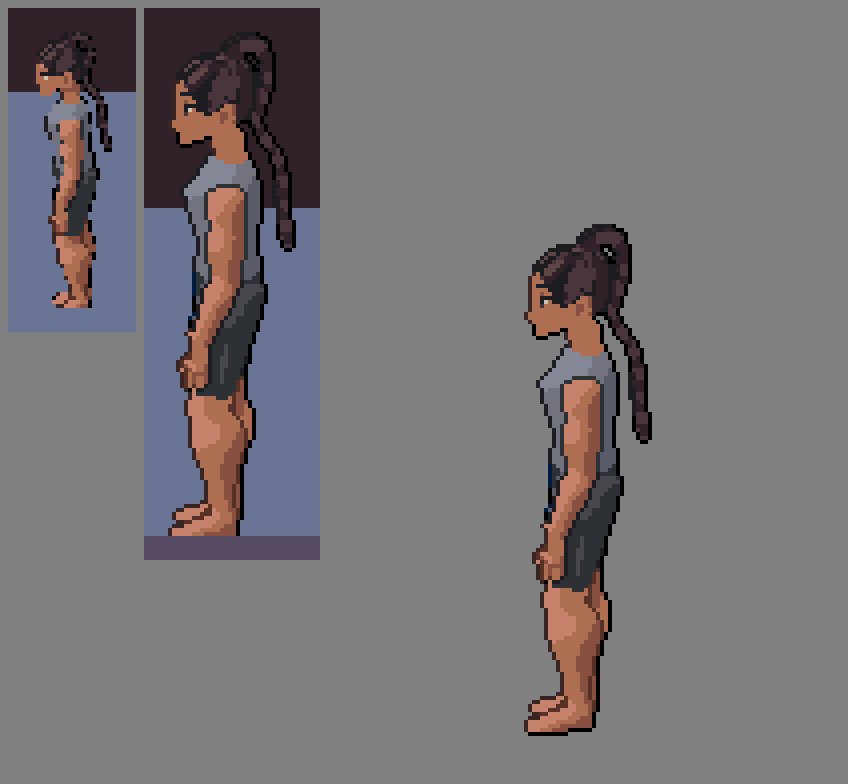
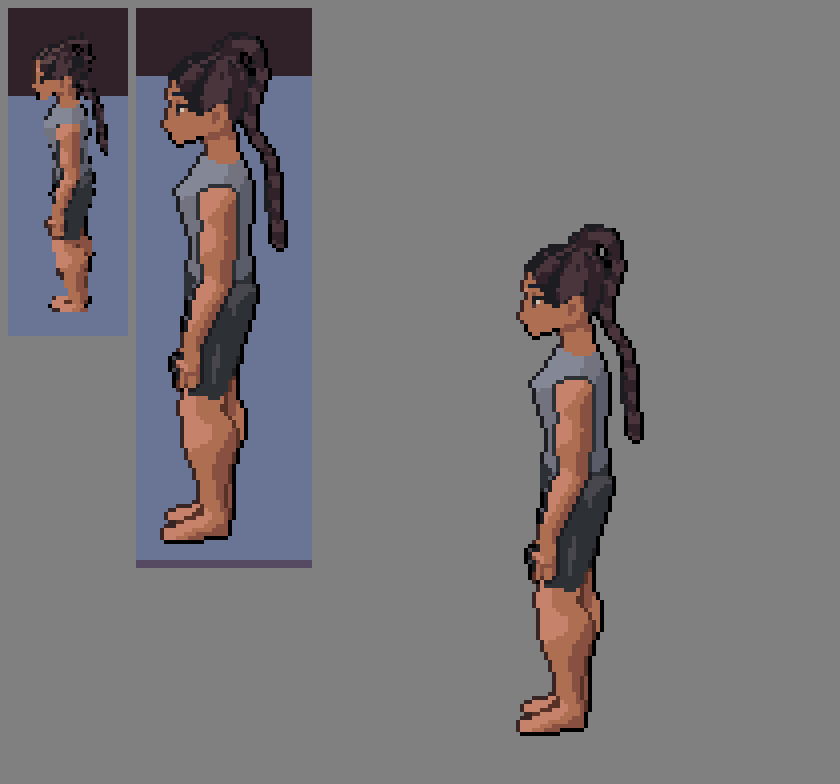
fix(examples): characterkit-painted states its camera, so main's new default does not minify the texels
main's default gameplay camera is now 50 mm, 30°, 16 m. The example took the default and a texel at the
walker's feet fell to 0.69 of a pixel (painted-scale failed 2 of 3). It now sets distance 10.75, which gives
1.0156, 0.9028 and 0.6771 at 720 x 405, 640 x 360 and 480 x 270, the numbers its size was chosen by.
painted-scale reads the distance from the example, thresholds unchanged. Gate 1 re-made: the stander is
1.000 texels a pixel and every texel equals the builder's; the pictures and the README move with it.

Claude-Session: https://claude.ai/code/session_01HNdX7K2SMNouVAW7qmCQuN

Changed region(s): [[0.0, 0.0, 0.4024, 0.7347], [0.619, 0.2755, 0.7738, 0.949]]

diff --git a/extensions/character-kit/tests/unit/painted/painted-scale.test.ts b/extensions/character-kit/tests/unit/painted/painted-scale.test.ts
@@ -1,7 +1,7 @@
-// "A texel is never minified": the example's own numbers (its size, the 24 mm lens and the follow rig's defaults), through
-// the builder's own `zoomOf`, never typed. The size is read from the example, so a change there moves this test with it.
-// Under reduced motion klipp's damping is zero, so the camera sits on its target: 5 m back from a focus 1 m above the
-// walker's feet, 25° down, and the feet are 5.42 m deep.
+// "A texel is never minified": the example's own numbers (its size, its camera's distance, the default 30° tilt and the
+// 50 mm lens), through the builder's own `zoomOf`, never typed. The size and the distance are read from the example, so a
+// change there moves this test with it. Under reduced motion klipp's damping is zero, so the camera sits on its target:
+// `distance` back from a focus 1 m above the walker's feet, `tiltDeg` down.
 import { readFileSync } from 'node:fs'
 import { join } from 'node:path'
 import { CAMERA_DEFAULTS, fovOf, LENS_MM } from '@automata/3d/camera-view'
@@ -20,6 +20,12 @@ const SIZE = (() => {
   if (!match) throw new Error('characterkit-painted.ts has no `size: { width, height }`')
   return [Number(match[1]), Number(match[2])] as const
 })()
+/** How far back the example's follow camera is. */
+const DISTANCE = (() => {
+  const match = /cameraView\('follow',\s*\{[^}]*distance:\s*([\d.]+)/.exec(readFileSync(EXAMPLE, 'utf8'))
+  if (!match) throw new Error("characterkit-painted.ts has no `cameraView('follow', { distance })`")
+  return Number(match[1])
+})()
 /** The corners of the walker's 2 m square. */
 const CORNERS: readonly (readonly [number, number])[] = [
   [-1, -1],
@@ -27,9 +33,9 @@ const CORNERS: readonly (readonly [number, number])[] = [
   [1, 1],
   [-1, 1],
 ]
-const { distance, tiltDeg, focusHeight } = CAMERA_DEFAULTS
+const { tiltDeg, focusHeight } = CAMERA_DEFAULTS
 const camera = (focus: readonly [number, number, number], size: readonly [number, number]) =>
-  poseOf(followCamera(focus, distance, tiltDeg, focusHeight, fovOf(LENS_MM)), size)
+  poseOf(followCamera(focus, DISTANCE, tiltDeg, focusHeight, fovOf(LENS_MM)), size)
 
 /** The texels a pixel at the walker's feet (what `scale` rounds) with the camera on the walker. */
 const walkerZoom = (size: readonly [number, number]) => zoomOf(camera([0, 0, 0], size), [0, 0, 0]) / 2

diff --git a/examples/3d/characterkit/characterkit-painted.ts b/examples/3d/characterkit/characterkit-painted.ts
@@ -4,8 +4,8 @@
 //   texel by texel, drawn in the scene as a quad that stands where its entity stands. It is drawn in eight views, as a
 //   sprite set is: the painter picks the one nearest the camera's bearing, so a turning camera steps through them. It is
 //   always painted at the painter's own 18° pitch, whatever the camera's tilt, and at one screen pixel a texel: the field
-//   is 720 × 405 so that a texel at the walker's feet is about a pixel (at 480 × 270 it would be two thirds of one, and
-//   texels would drop out). Each texel has its own depth, so the walker goes behind the low wall on its near side texel by
+//   is 720 × 405 and the camera 10.75 m back so that a texel at the walker's feet is about a pixel (at 480 × 270 it
+//   would be two thirds of one, and texels would drop out). Each texel has its own depth, so the walker goes behind the low wall on its near side texel by
 //   texel, not as a flat cut-out. Everything about the look (the light's bands, the outline, the face, the colours) is
 //   the painter's.
 // Controls: none
@@ -44,7 +44,9 @@ const walk = defineSystem('walk', (ctx) => {
   ][side] as [number, number, number]
   for (const walker of ctx.query(Walker)) walker.set(Walker, { x, z, yaw, walking: lap < 480 })
 })
-const FOLLOW = cameraView('follow')
+// The camera is stated, not defaulted: the example's size is chosen for how far back it is. The default gameplay camera
+// (50 mm, 30°, 16 m) would put a texel at the walker's feet at 0.69 of a pixel here, and texels would drop out.
+const FOLLOW = cameraView('follow', { distance: 10.75 })
 
 // --- game ---
 export default defineGame({

diff --git a/docs/refactor/progress.md b/docs/refactor/progress.md
@@ -750,11 +750,12 @@ does not merge.
 | 3. Spec and plan for cycle c7 | Done, 2026-11-11, approved ahead by the Owner ("auto approve spec and plans", relayed by the coordinator), the plan audit next: the builder's look in AF (D2, painted at 18° whatever the camera's tilt, crisp), per-texel depth on the builder's own `CellSprite` in AF's view, the runway wardrobe, fabrics, library and casts in the kit on the builder's hooks, and a runway example; 10 tasks, two gates (the coordinator's checkpoints). Nothing in `packages/3d` by design (two files named in case). Two asks of FigureBuilder first (`TIE_BIAS` on its index; six names on its kit entry). Read: FigureBuilder main `1da8879` and its showcase branches. Ran: the docs style check (`check-style --docs`). Not run: `pnpm format` and `pnpm check` (no install in this session; Biome does not format Markdown). Nothing built | [spec](2026-11-11-c7-fashion-spec.md), [plan](2026-11-11-c7-fashion-plan.md) |
 | 3a. Plan audit | Done, 2026-11-11 (no subagents): 5 blocking (B1 Task 0 waited on FB #27, merged as `d6e3c9f`; B2 the pose test folded `zoom` the wrong way for both modes; B3 Task 4's 0.95 could not pass, the feet are 5.42 m deep, about 0.90; B4 the runway left every 420 ticks, racing the journey and the spec; B5 no step checked the FB names before code), 10 should-fix (Pixi resolution through the wrapper, `View3D.onRender` as the seam, lazy attach, the state check in Node, hidden figures, the browser engines, gate 1's clock and base `a66b4e0e`, gate 2's CPU (throttled, per-model first paints, paint-ahead), the vendor paths in `3d.yml`, the phones' scale), 5 nice-to-have; all fixed in the plan. The spec corrected where wrong (FB main, the px-a-texel numbers at the feet, the phones, two walkers at once). Not verified: anything in FB (the submodule could not be cloned and the repo could not be added); Task 1 Step 1b checks it first. Ran: `pnpm install`, `pnpm format`, `check-style --docs` | [audit](2026-11-11-c7-fashion-plan-audit.md) |
 | 4. Resolution and depth (plan Tasks 1 to 4) | Done, 2026-11-11 (session of cycle c7-af's execution, no subagents): the submodule at `d6e3c9f`; the door in `src/shared/figure-builder/` (`door.ts`, `door-view.ts`); `poseOf` and `place` (the stage contract's rule, equal to the builder's `stageFrame`, perspective and orthographic); a per-camera painted stage on the builder's `CellSprite` in `View3D.onRender` (depth per texel, equal to `compose`); `characterkit-painted` at 720 × 405 (the coordinator's ruling) with a wall. Ran, in Chromium only: kit unit 118+, kit browser 46 pass 1 skipped (WebGPU, no adapter), `characterkit-painted` journey (examples-3d), format, lint, typecheck, boundaries, style, knip, the whole unit suite through the pre-commit hook (61 packages). Not run: WebKit and Firefox (not installable here), the GPU runner, `pnpm check`'s changeset step | plan Tasks 1 to 4 |
-| 5. Gate 1: before and after renders, texels a pixel measured (Task 5) | Ready, 2026-11-11, the coordinator's checkpoint: before `a66b4e0e` 1.78 texels a pixel, after 1.016 (the stander, whole figure) and 1.000 from the ground up; 0 pixels differ from the builder's `compose` in four cases (230,400 compared, 228,480 where three rows are skipped); made by `pnpm --filter @automata/character-kit gate 1` (re-made in 7b: the numbers are `measurements.json`'s). Firefox and the GPU runner pending | [gate 1](c7/gate-1/README.md) |
+| 5. Gate 1: before and after renders, texels a pixel measured (Task 5) | Ready, 2026-11-11, the coordinator's checkpoint: before `a66b4e0e` 1.78 texels a pixel, after 1.016 (the stander, whole figure) and 1.000 from the ground up; 0 pixels differ from the builder's `compose` in four cases (230,400 compared, 228,480 where three rows are skipped); made by `pnpm --filter @automata/character-kit gate 1` (re-made in 7b, and again in 7c after `main`'s camera: the numbers above are 7b's; `measurements.json` holds 7c's). Firefox and the GPU runner pending | [gate 1](c7/gate-1/README.md) |
 | 6. The kit's fashion (Tasks 6 to 8) | Done, 2026-11-11: seven fabrics, the wardrobe's and the characters' swatches, twelve hair styles and the `silk` finish (Task 6); nine garment kinds fitted to the body under them (7); the eight runway models and seven demo characters as data, the entry's exports, the extension registering the wardrobe on load, the README's "Painted figures and the wardrobe" (8). Ran, in Chromium and WebKit: the kit's browser suite (46 pass, 2 skipped: WebGPU has no adapter here, and the gate-sheet case runs only under `scripts/gate.ts`), the three `characterkit-*` journeys (6 pass, both projects). Ran, Node: the kit's unit suite (159 pass), format, lint, typecheck, boundaries, style, knip, and the whole unit suite through the pre-commit hook. Not run: Firefox (no WebGL here), the GPU runner, `pnpm build` and `pnpm api-report`/`api-index` (no published package changed), `changeset status` (every package touched is private). The fit test counted the cloth's layer over the bare body, not skin through cloth (7b replaces it) | plan Tasks 6 to 8 |
 | 7. The runway example and gate 2 (Tasks 9 and 10) | **On hold for EnvironmentBuilder's stage 2.** The Owner, relayed by the coordinator: "We can hault progress for the fashion runway until the envbuilder is done with stage 2 so the runway actually looks good". Nothing of the runway scene is on the branch (the example, its journey, its path in `painted-scale`, the paint probe and gate 2's script are held; the work in progress is kept outside the repository). Done of Task 9: `coloursPerThird` in one place (`tests/e2e/colours.ts`). The implementation audit runs on Tasks 1 to 8 and merges ahead of the runway | plan Tasks 9 and 10 |
 | 7a. Implementation audit (Tasks 1 to 8) | Done, 2026-11-11 (no subagents), on `claude/c7-af` at `0cd2d6dd`: 1 blocking, 9 should-fix, 6 nice-to-have, none fixed here. Blocking: B1 `pnpm check` fails (`@automata/versions`: the kit's `tsx@4.23.15` is not in `docs/versions.md`; the pre-commit hook never ran that test). The 9% gap at gate 1 is the measurement, not the painter: the stander is drawn at one of two idle steps run to run (91% or 98.85% against `standing`), and the last 27 texels are the soles' outline below the ground line, hidden by the floor (S1, S2). The wardrobe port paints the showcase's cells byte for byte on FB `d6e3c9f` (32 of 32) and moves no base pixel; the fit test catches 1 of 16 cases when a top sinks into the body, none when trousers do (S4). WebKit's 2 px in depth case 3 are true crossings (10 and 29 µm), but `CROSSING = 8` is global (S3). Also: plan boxes unticked (S5), ADR 0007 stale (S6), the root hoists `@pixi/3d` with no guard on published packages (S7), the branch stacked on #577 and conflicting with main in this file (S9). Ran: `pnpm check` (fails, B1), every package's unit tests (60 of 61), `check:changesets`, the kit's browser suite in Chromium and WebKit (46 pass, 2 skipped each), the three `characterkit-*` journeys in both (6 pass), `pnpm build` (16 pass, no beta in a published `dist`). Not run: Firefox, the GPU runner | [implementation audit](2026-11-11-c7-fashion-implementation-audit.md) |
 | 7b. Fixes (Tasks 1 to 8) | Done, 2026-11-11 (no subagents), on `claude/c7-af`: B1 and S1 to S8 closed; S9 open (#577 not merged when this finished, so `main` is not merged in). B1: `pnpm check` passes whole (exit 0, 2 min 28 s); `tsx` stays and its pin is in `docs/versions.md`, because the `goldens` way of running a script cannot load the builder's JSON imports (`ERR_IMPORT_ATTRIBUTE_MISSING`). S1/S2: gate 1 compares the render with the builder's best idle cell of 600 steps; above the ground line every texel equals the builder's (100%), 27 of the 45 below it are hidden by the floor, 1.000 texels a pixel from the ground up; README, `parity.json` (228,480 compared in the wall case), the gate's header and this table's numbers corrected from the artifacts. S3: case 3 of `painted-depth` skips only the pixels where two sprites' test depths are within 1e-4 m and requires 0 elsewhere, in Chromium and WebKit (it passes in both). S4: a golden of 112 md5s from the showcase's own wardrobe (`cb4aa9f`) on FB `d6e3c9f`: 32 (8 models × 4 directions) and 80 on the fit check's five slider extremes; clearance mutations of `shells.ts` now fail 16 (top 0), 16 (top inverted), 10 (trousers 0) and 10 (trousers −2) of 58 fashion tests (before: 1, 1, 0, 4 of 16 fit cases). The skin-through-cloth count (read from `RUNWAY_CAST`) was written and catches none of them: a garment repaints what it covers, so the golden is the guard. S5: plan boxes ticked, Task 3 Step 6 left open (Firefox). S6: ADR 0007 amended. S7: `@pixi/3d` and `figure-builder` forbidden in all 13 published packages, pinned by `closed-beta-guard.test.ts`. S8: the merge checklist is in the plan. Ran: `pnpm check` (whole), the kit's unit suite (176), its browser suite in Chromium and WebKit (46 pass, 2 skipped each), the three `characterkit-*` journeys in both (6 of 6), gate 1. Not run: Firefox, the GPU runner. Skipped nice-to-haves: N1 (a floor case in `painted-depth`: the soles' call is the Owner's, so it waits for them), N2 (the depth-range assertion needs the stage's fitted near and far, known only after a frame), N3 (no read of the builder's fabric, finish or garment tables without registering), N4 (the demo cast's names, the Owner's); N5 done (a comment in `model.ts`), N6 done (the README says the idle step is found, not assumed) | [plan log](2026-11-11-c7-fashion-plan.md) |
+| 7c. Merge of `main` (S9) | Done, 2026-11-11 (no subagents), `main` at `c24ca702` (#577 merged) merged into `claude/c7-af`; `progress.md` kept both sides (main's "Not started" row 3 dropped: rows 3 to 7b replace it). **The merge broke `painted-scale`** (2 of 3 cases): `characterkit-painted` took `cameraView('follow')`'s defaults, which main changed from 24 mm, 25°, 5 m to 50 mm, 30°, 16 m, so a texel at the walker's feet was 0.69 of a pixel, minified. Fixed in the example, not the test: it states its camera (`distance: 10.75`), the way `render3d-angled-camera` did on main; `zoomOf` there is 1.0156 at 720 × 405, 0.9028 at 640 × 360 and 0.6771 at 480 × 270, the numbers the size was chosen by; `painted-scale` reads the distance from the example as it reads the size, its thresholds unchanged. Gate 1 re-made (base `a66b4e0e` in `/home/user/c7-base`): whole stander 1.000 texels a pixel, all 2,356 opaque texels equal the builder's (100%), and the floor hides none of the 45 below the ground line (27 before); README corrected. Ran: `pnpm check` (whole, exit 0), the kit's browser suite in Chromium and WebKit (46 pass, 2 skipped each), the three `characterkit-*` journeys in both (6 of 6). Not run: Firefox, the GPU runner | [plan log](2026-11-11-c7-fashion-plan.md) |
 
 ## EnvironmentBuilder's look on @automata/3d (phase 2: baseline and gap, 2026-11-10)
 

diff --git a/docs/refactor/c7/gate-1/README.md b/docs/refactor/c7/gate-1/README.md
@@ -5,7 +5,7 @@ Made by `pnpm --filter @automata/character-kit gate 1` (`extensions/character-ki
 this before the fashion work (tasks 6 to 8) goes on.
 
 Before is `a66b4e0e` (the head of `claude/figurebuilder-submodule`, which this branch was cut from), built in a worktree of its own;
-after is this branch. Both ran in Chromium under Playwright's fake clock with `reducedMotion: 'reduce'`, the viewport the field's own size
+after is this branch merged with `main` (`c24ca702`), whose default gameplay camera (50 mm, 30° down, 16 m back) the example no longer takes: it states its own, 10.75 m back, so a texel stays a pixel. Before ran the old default (24 mm, 25° down, 5 m back). Both ran in Chromium under Playwright's fake clock with `reducedMotion: 'reduce'`, the viewport the field's own size
 so the letterbox's upscale is ×1 and the canvas holds the field's pixels, and the readback taken 33 ms of fake time after the
 first frame that shows the figures. That is the walker's loop at the same tick on both sides, but not the stander's idle at the same
 step: she is the builder's `Figure` standing idle on the page's frame clock, and how many 17 ms fake-clock steps the page took to
@@ -27,14 +27,14 @@ start is not fixed, so the gate finds the idle cell the render shows (below) ins
 
 | | painted rows of her cell | her height in pixels | texels a pixel |
 |---|---|---|---|
-| before (480 × 270, cell painted at the camera's 25°), whole figure | 123 | 69 | 1.78 |
-| after (720 × 405, cell painted at the painter's 18°), whole figure | 128 | 126 | 1.016 |
+| before (480 × 270, cell painted at the camera's 25°), whole figure | 123 | 70 | 1.757 |
+| after (720 × 405, cell painted at the painter's 18°), whole figure | 128 | 128 | 1.000 |
 | after, from the ground up (the anchor row, 178.5, to her top) | 125 | 125 | 1.000 |
 
-The three rows of her cell under the ground line (128 painted, 125 above it) are the soles' outline, and the room's floor (its top at
-the ground) is nearer the camera than they are, so it hides most of them: that is the depth rule at work (the builder's contract, section 4b),
-not a painter mismatch. Measured from the ground up the floor does not shorten her, and a texel is exactly a pixel. The before row
-measures the whole figure (there is no like-for-like cell to find in a minified render, so no ground is located in it).
+Three rows of her cell are under the ground line (128 painted, 125 above it): the soles' outline. In this render the floor does not
+hide them (an earlier render, at the old camera, had the floor hide 27 of the 45 texels there), so the whole figure is 128 rows in 128
+pixels. The before row measures the whole figure (there is no like-for-like cell to find in a minified render, so no ground is located
+in it).
 
 Before, a texel was minified: nearly two texels went into each pixel, so texels dropped out (the jagged outline of the left tile).
 After, a texel is a pixel: the figure is the builder's cell as it paints it.
@@ -48,18 +48,17 @@ landed on. In `measurements.json` (`after`):
 
 | | texels | share |
 |---|---|---|
-| opaque texels of the best idle cell (first step: 1, of 4 steps at this share; the sheet's `standing` is step 3) | 2354 | |
-| equal to the render's pixel, one pixel each, at the best offset | 2327 | 98.85% |
+| opaque texels of the best idle cell (step 5, of 5 steps at this share; the sheet's `standing` is step 3) | 2356 | |
+| equal to the render's pixel, one pixel each, at the best offset | 2356 | 100% |
 | of those, below the ground line | 45 | |
-| below the ground line, seen | 18 | |
-| below the ground line, hidden by the floor | 27 | |
+| below the ground line, seen | 45 | |
+| below the ground line, hidden by the floor | 0 | |
 | **above the ground line: equal to the render** | all of them | **100%** |
 
-So the 98.85% is not the painter: every texel above the ground is the builder's to the byte, and the 27 that differ are the soles
-under the floor. (The plan's log gave 91% and an earlier version of this README 99%: the render against the sheet's `standing` cell, which is one
-idle step, so the number depends on which step the frame landed on. This run's `standing` share, `exactTexelShareVsStanding`, equals
-the best.) The unit test `painted-scale` gives the same from `zoomOf`: 0.67 a pixel at 480 × 270,
-0.90 at 640 × 360, 1.01 at 720 × 405 (the coordinator's ruling, never minified).
+So every texel of her cell, the soles included, is the builder's to the byte. (The plan's log gave 91%, and an earlier run of this gate
+98.85% with 27 soles under the floor: the render against one idle step, and at the old camera. The share against `standing`
+alone, `exactTexelShareVsStanding`, is 92.1% this run, because the frame landed on another idle step.) The unit test `painted-scale` gives
+the same from `zoomOf`: 0.68 a pixel at 480 × 270, 0.90 at 640 × 360, 1.02 at 720 × 405 (the coordinator's ruling, never minified).
 
 ## Parity with the builder's `compose` (the depth sheet)
 
@@ -80,8 +79,8 @@ flat-depth mutation fails (cases 3 and 4).
 
 ## What changed, and why
 
-- The cell is painted at the builder's 18° whatever the camera's tilt (the camera is 25° down here), at D2, and drawn crisp: whole pixels a
-  texel, the top-left on the pixel grid. The size is 720 × 405 so that a texel at the walker's feet is 1.01 px.
+- The cell is painted at the builder's 18° whatever the camera's tilt (the camera is 30° down here, through a 50 mm lens, 10.75 m back), at D2, and drawn crisp: whole pixels a
+  texel, the top-left on the pixel grid. The size is 720 × 405 and the camera 10.75 m back, so that a texel at the walker's feet is 1.02 px.
 - Each texel has a depth, so figures hide behind AF's geometry and each other by texel. `characterkit-painted` gained a low wall between the camera
   and the walker's near side (the camera looks toward +z): in `after.png` the walker's legs are behind it.
 - The sprite is the builder's own `CellSprite` in AF's `View3D`, placed by the stage contract's rule (the kit's `place.ts`, held to the

diff --git a/docs/refactor/2026-11-11-c7-fashion-plan.md b/docs/refactor/2026-11-11-c7-fashion-plan.md
@@ -576,3 +576,6 @@ The runway's gate 2 also runs `pnpm build`; Tasks 1 to 8 merge before it, so the
   clearance mutations of `shells.ts` now fail 10 to 16 unit tests; the skin count alone fails none (a garment repaints what it covers). S5: boxes ticked
   (Task 3 Step 6 stays open: Firefox did not run). S6: ADR 0007. S7: `@pixi/3d` and `figure-builder` forbidden in all 13 published packages. S8: the merge checklist above.
   Skipped: N1 to N6, see the fixes row in `progress.md`.
+- 2026-11-11 (S9, `main` merged): #577 is on `main` (`c24ca702`). `main`'s new default gameplay camera (50 mm, 30°, 16 m) minified `characterkit-painted` to
+  0.69 of a pixel a texel (`painted-scale` failed 2 of 3); the example now states `distance: 10.75` (1.0156, 0.9028, 0.6771 at the three sizes), and gate 1
+  was re-made: 1.000 texels a pixel, 100% of the stander's texels equal the builder's, none of the soles hidden. This supersedes the 27-of-45 and 91% figures above.
